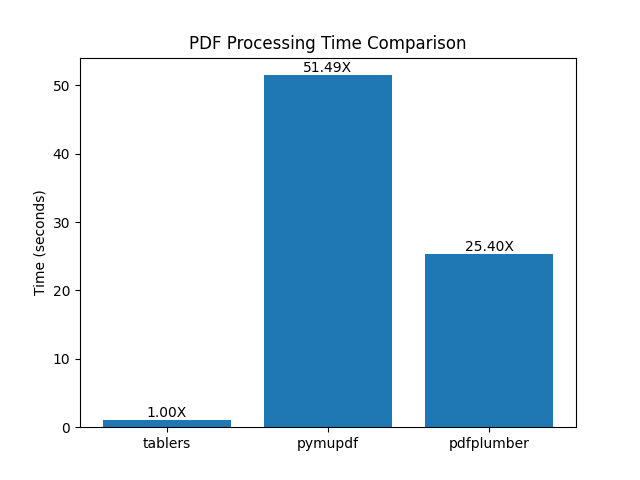
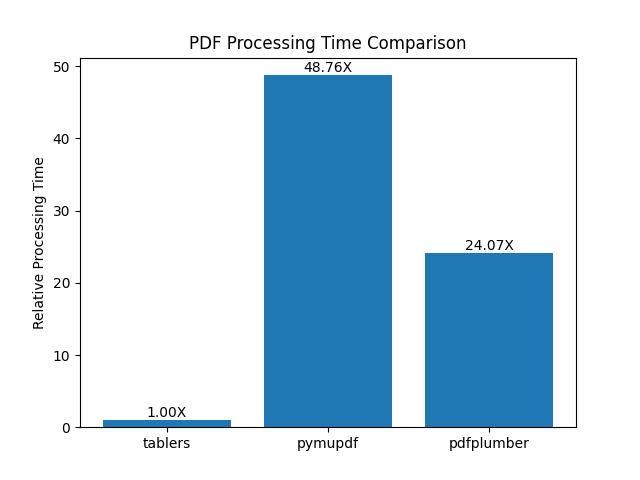
chore: change name of y-axis

diff --git a/main.py b/main.py
@@ -52,7 +52,7 @@ if __name__ == "__main__":
                 f'{ratio:.2f}X',
                 ha='center', va='bottom')
     
-    ax.set_ylabel('Time (seconds)')
+    ax.set_ylabel('Relative Processing Time')
     ax.set_title('PDF Processing Time Comparison')
     
     plt.savefig("table_extraction_benchmark.png")
